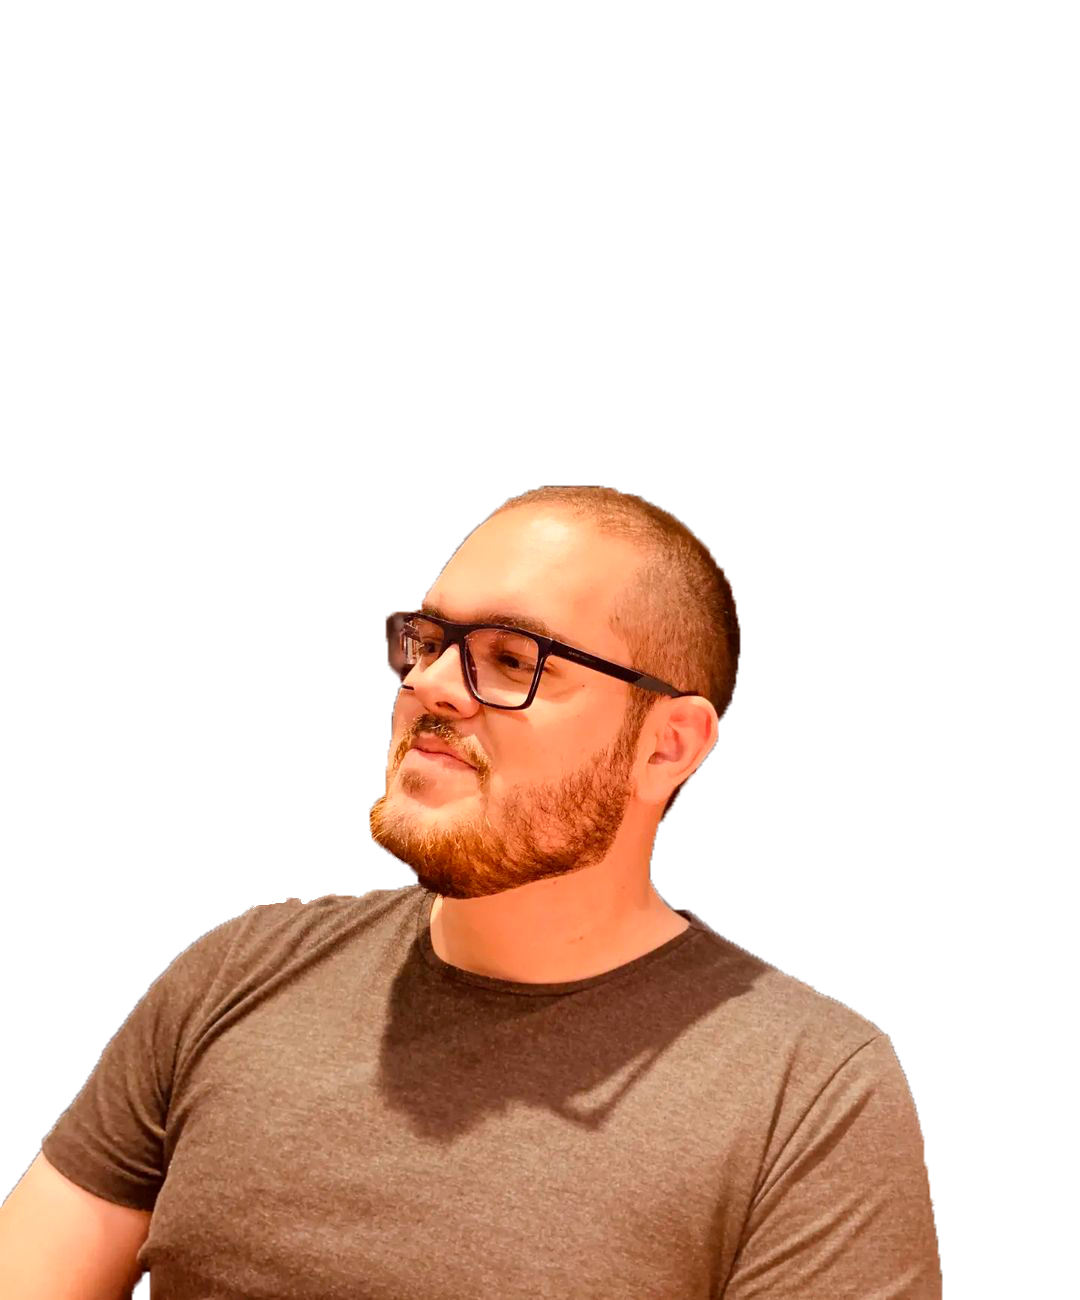
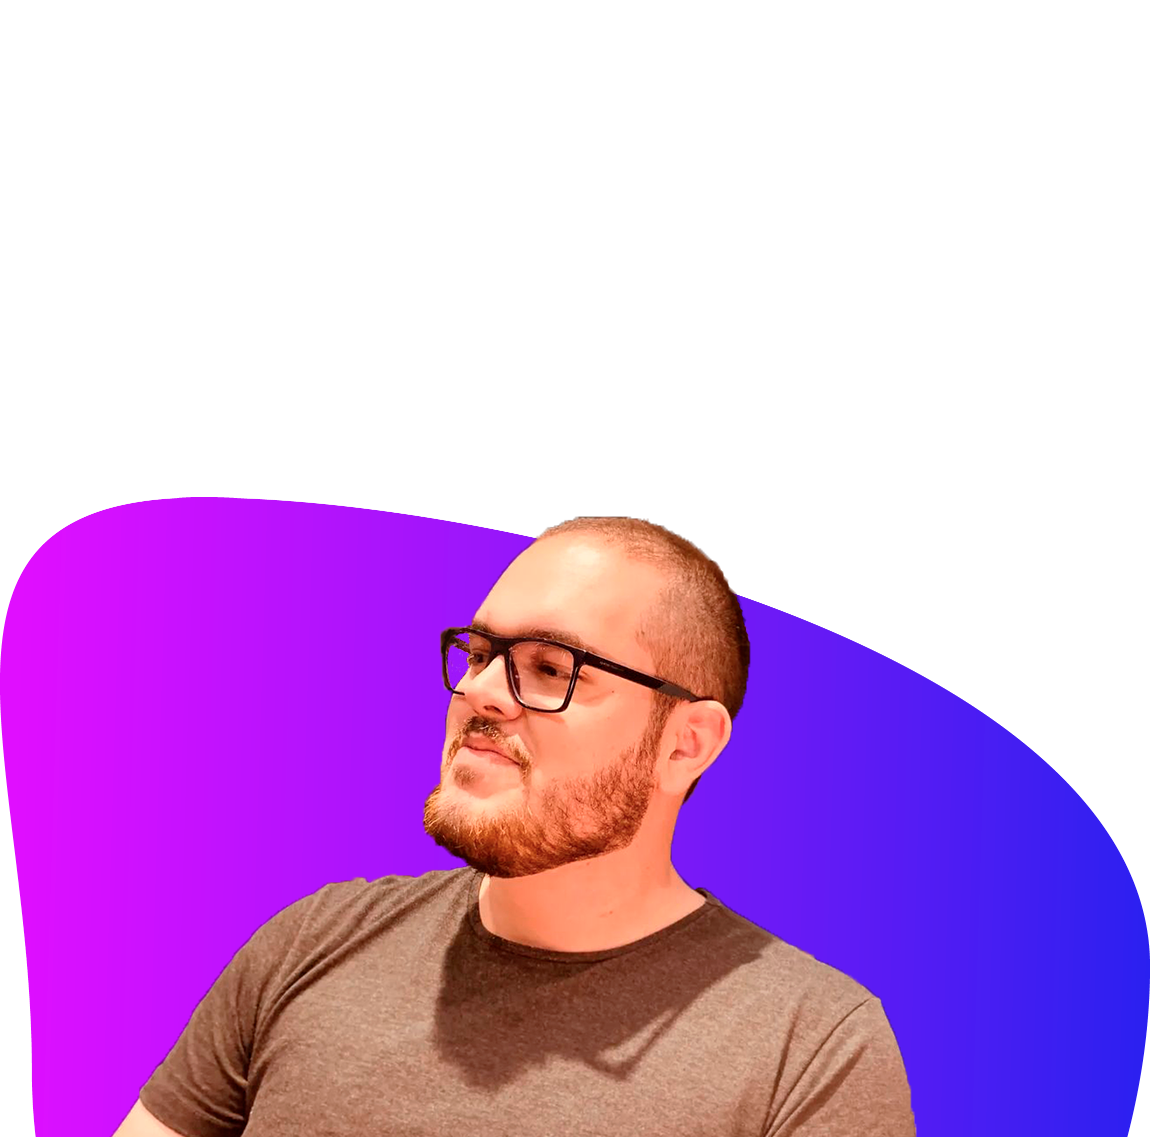
Ajuste about e envio imagem

diff --git a/src/components/About.js b/src/components/About.js
@@ -2,13 +2,20 @@ import Image from 'next/image';
 
 const About = () => {
     return(
-        <div id="about" className="grid grid-cols-2 text-black h-screen">
-            <div className="my-10 mx-32">
+        <div id="about" className="relative h-screen">
+            <div className="text-black">
                 <span className="max-w-40">
                     Qualidade é o alicerce que sustenta a grandeza de um software - como desenvolvedor e analista de qualidade, busco construir soluções que resistam ao tempo e transcendam as expectativas.
                 </span>
             </div>
-            <div className="">
+            <div className="absolute bottom-0 right-3">
+                <Image
+                className="mb-0 mt-auto"
+                    src="/perfil.png"
+                    width={700}
+                    height={700}
+                    alt="Picture of the author"
+                    />
 
             </div>
         </div>
